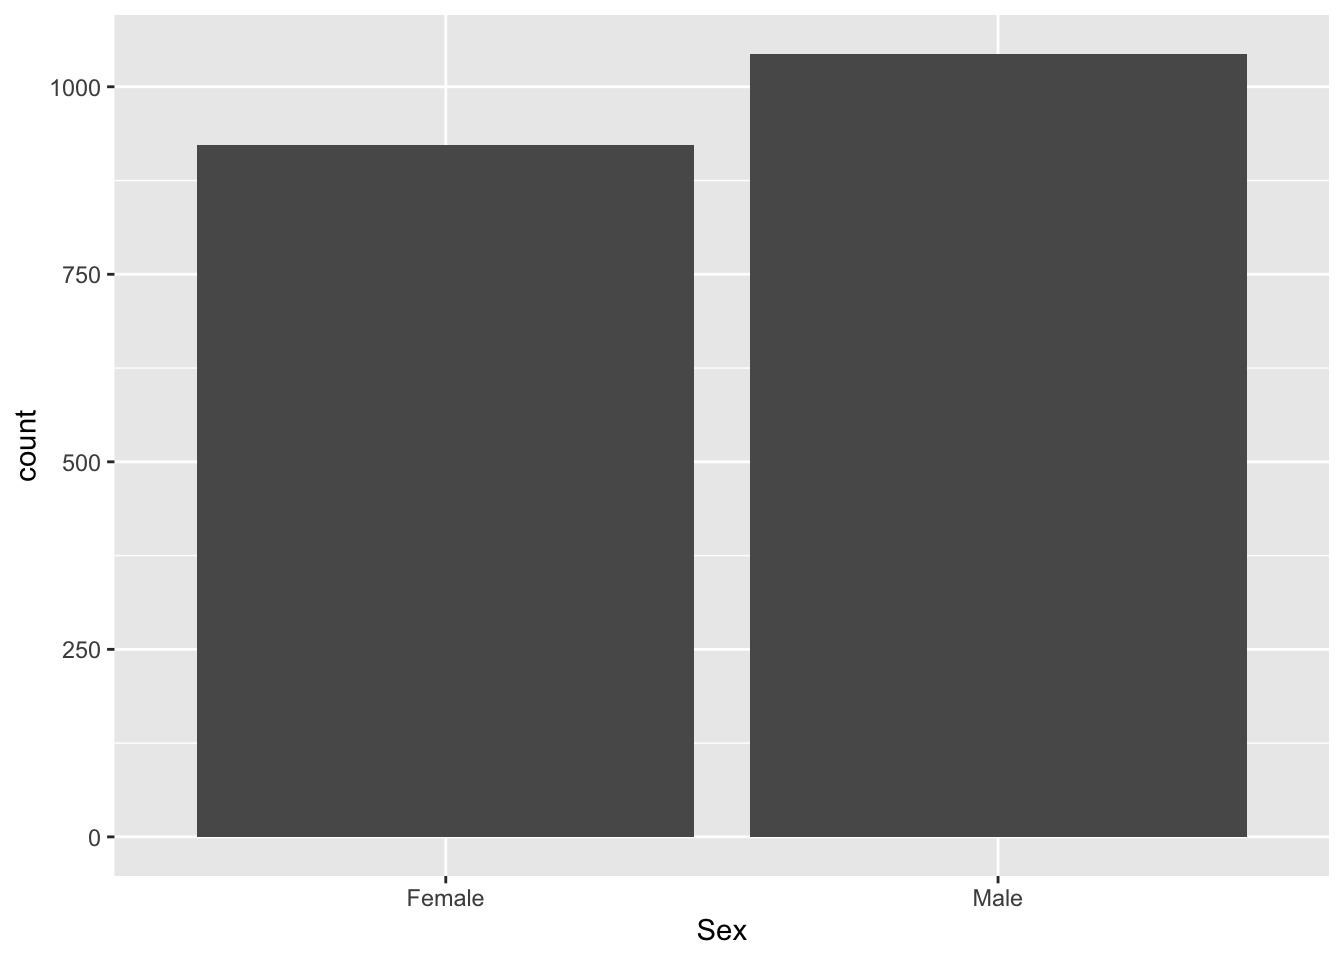
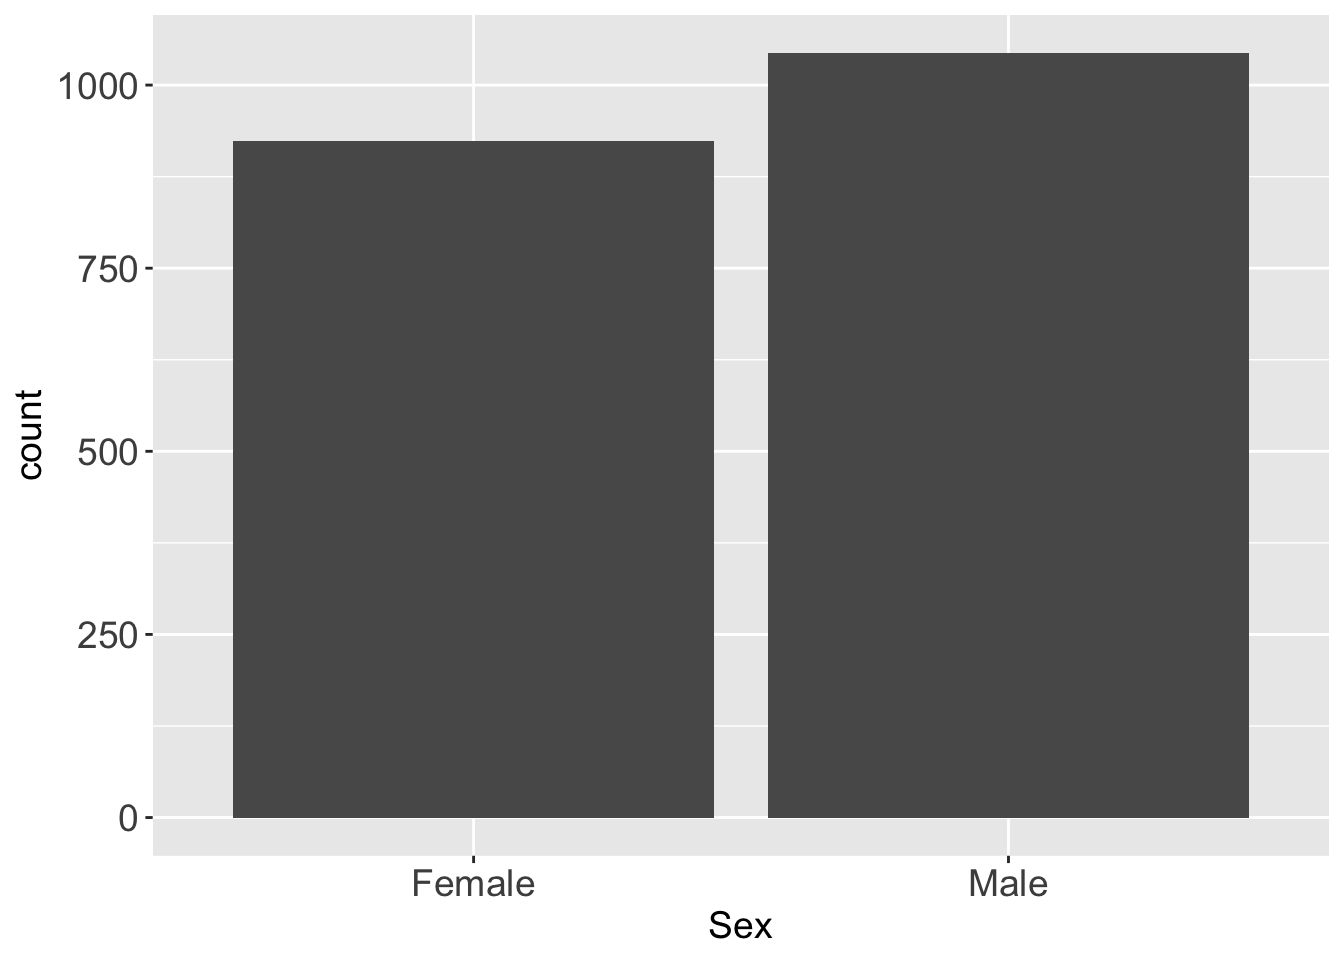
Updated questions

diff --git a/docs/datathon.html b/docs/datathon.html
@@ -195,10 +195,10 @@ pre > code.sourceCode > span > a:first-child::before { text-decoration: underlin
 </section>
 <section id="data-and-prep" class="level2">
 <h2 class="anchored" data-anchor-id="data-and-prep">Data and Prep</h2>
-<p>Using the <a href="https://www.inqs.info/ci_datathon_25/tutorial.html">tutorial</a> and example analysis, complete at least one of the challenges.</p>
-<p>The data provided is part of an ongoing longitudinal study of island foxes from 2014 to 2016 of trap monitoring. This resulted in collection of 4,975 recorded trap observations, which may have contained a fox or not. Other information collected were Sex, Age Class, Weight, Body Condition, Reproductive Status, and Vaccinations. Information on the data collected can be found in the <a href="https://www.inqs.info/ci_datathon_25/codebook_19052696">Databook</a>.</p>
+<p>The data provided is part of an ongoing longitudinal study of island foxes from 2014 to 2016 of trap monitoring. This resulted in collection of 4,975 recorded trap observations, which may have contained a fox or not. Other information collected were Sex, Age Class, Weight, Body Condition, Reproductive Status, and Vaccinations. Information on the data collected can be found in the <a href="https://github.com/mludkov/UCSB_Data_Day_2026/blob/gh-pages/data_for_datathon_2014_2016.csv">Databook</a>.</p>
 <section id="loading-packages" class="level3">
 <h3 class="anchored" data-anchor-id="loading-packages">Loading Packages</h3>
+<p>The <code>tidyverse</code> suite is a collection of data analysis packages:</p>
 <div class="cell">
 <div class="sourceCode cell-code" id="cb1"><pre class="sourceCode r code-with-copy"><code class="sourceCode r"><span id="cb1-1"><a href="#cb1-1" aria-hidden="true" tabindex="-1"></a><span class="fu">library</span>(tidyverse)</span></code><button title="Copy to Clipboard" class="code-copy-button"><i class="bi"></i></button></pre></div>
 <div class="cell-output cell-output-stderr">
@@ -219,7 +219,8 @@ pre > code.sourceCode > span > a:first-child::before { text-decoration: underlin
 <h3 class="anchored" data-anchor-id="loading-data">Loading Data</h3>
 <p>We will load the data into the R workspace using the <code>read_csv</code> function:</p>
 <div class="cell">
-<div class="sourceCode cell-code" id="cb3"><pre class="sourceCode r code-with-copy"><code class="sourceCode r"><span id="cb3-1"><a href="#cb3-1" aria-hidden="true" tabindex="-1"></a>df <span class="ot">&lt;-</span> <span class="fu">read_csv</span>(here<span class="sc">::</span><span class="fu">here</span>(<span class="st">"data_for_datathon_2014_2016.csv"</span>)) <span class="co"># Loads the Data Set into the object df</span></span></code><button title="Copy to Clipboard" class="code-copy-button"><i class="bi"></i></button></pre></div>
+<div class="sourceCode cell-code" id="cb3"><pre class="sourceCode r code-with-copy"><code class="sourceCode r"><span id="cb3-1"><a href="#cb3-1" aria-hidden="true" tabindex="-1"></a><span class="co"># Need to modify to load the file from the location where you downloaded it</span></span>
+<span id="cb3-2"><a href="#cb3-2" aria-hidden="true" tabindex="-1"></a>df <span class="ot">&lt;-</span> <span class="fu">read_csv</span>(here<span class="sc">::</span><span class="fu">here</span>(<span class="st">"data_for_datathon_2014_2016.csv"</span>)) <span class="co"># Loads the Data Set into the object df</span></span></code><button title="Copy to Clipboard" class="code-copy-button"><i class="bi"></i></button></pre></div>
 <div class="cell-output cell-output-stderr">
 <pre><code>Rows: 4975 Columns: 16
 ── Column specification ────────────────────────────────────────────────────────
@@ -237,7 +238,7 @@ dttm (1): TrapDate
 <h3 class="anchored" data-anchor-id="cleaning-data">Cleaning Data</h3>
 <section id="renaming-categories" class="level4">
 <h4 class="anchored" data-anchor-id="renaming-categories">Renaming Categories</h4>
-<p>Looking at the <a href="https://www.inqs.info/ci_datathon_25/codebook_19052696">Databook</a>, the variables <code>Vaccinations</code>, <code>ReproductiveStatus</code> and <code>BodyCondition</code> have interesting ways they are coded. In <code>Vaccinations</code>, missing values (<code>NA</code>) are considered as not vaccinated; therefore, changing the missing to “NV” will ensure that they are correctly classified, see data book. In <code>ReproductiveStatus</code>, the missing values (<code>NA</code>) indicate unknown reproductive status. In <code>BodyCondition</code>, the numerical values 1, 2, 3, 4, and 5, represent a condition. To make the condition easier, we will convert them to the categories. Run the code below to alter them:</p>
+<p>Looking at the <a href="https://github.com/mludkov/UCSB_Data_Day_2026/blob/gh-pages/IslandFoxes_codebook.pdf">Codebook</a>, the variables <code>Vaccinations</code>, <code>ReproductiveStatus</code> and <code>BodyCondition</code> are coded in interesting ways. In <code>Vaccinations</code>, missing values (<code>NA</code>) are considered as not vaccinated; therefore, changing the missing to “NV” will ensure that they are correctly classified. In <code>ReproductiveStatus</code>, the missing values (<code>NA</code>) indicate unknown reproductive status. In <code>BodyCondition</code>, the numerical values 1, 2, 3, 4, and 5, represent a condition. To make the condition easier, we will convert them to the categories. Run the code below to alter them:</p>
 <div class="cell">
 <div class="sourceCode cell-code" id="cb5"><pre class="sourceCode r code-with-copy"><code class="sourceCode r"><span id="cb5-1"><a href="#cb5-1" aria-hidden="true" tabindex="-1"></a>df <span class="ot">&lt;-</span> df <span class="sc">|&gt;</span> <span class="fu">mutate</span>( <span class="co"># Will change the variables in the df data set</span></span>
 <span id="cb5-2"><a href="#cb5-2" aria-hidden="true" tabindex="-1"></a>    <span class="at">Vaccinations =</span> <span class="fu">case_when</span>(<span class="fu">is.na</span>(Vaccinations) <span class="sc">~</span> <span class="st">"NV"</span>, <span class="at">.default =</span> Vaccinations), <span class="co"># Reclassifies Missing Data in Vaccination as "N" per code book.</span></span>
@@ -254,7 +255,7 @@ dttm (1): TrapDate
 </section>
 <section id="missing-values" class="level4">
 <h4 class="anchored" data-anchor-id="missing-values">Missing Values</h4>
-<p>Several variables in the data set may have missing values. Using the <code>summary()</code>, we can determine which variables have missing values by looking at the “NA’s” category.</p>
+<p>Several variables in the data set may be missing. Using the <code>summary()</code>, we can determine which variables have missing values by looking at the “NA’s” category.</p>
 <div class="cell">
 <div class="sourceCode cell-code" id="cb6"><pre class="sourceCode r code-with-copy"><code class="sourceCode r"><span id="cb6-1"><a href="#cb6-1" aria-hidden="true" tabindex="-1"></a><span class="fu">summary</span>(df)</span></code><button title="Copy to Clipboard" class="code-copy-button"><i class="bi"></i></button></pre></div>
 <div class="cell-output cell-output-stdout">
@@ -317,7 +318,7 @@ dttm (1): TrapDate
 <section id="fox-weight" class="level2">
 <h2 class="anchored" data-anchor-id="fox-weight">Fox Weight Analysis</h2>
 <p>Imagine you’re a field biologist tracking animal health across the remote Santa Rosa and San Miguel Islands. You’ve noticed that some animals seem heavier in certain years—but is it just your imagination, or is there a real trend?</p>
-<p>The <code>Weght</code> variable contains information of the Fox’s weight in killogrgms. Let’s start by calculating the mean weight and standard deviation of weight using <code>mean()</code> and <code>sd()</code> functions:</p>
+<p>The <code>Weght</code> variable contains information of the Fox’s weight in kilograms. Let’s start by calculating the mean weight and standard deviation of weight using <code>mean()</code> and <code>sd()</code> functions:</p>
 <div class="cell">
 <div class="sourceCode cell-code" id="cb11"><pre class="sourceCode r code-with-copy"><code class="sourceCode r"><span id="cb11-1"><a href="#cb11-1" aria-hidden="true" tabindex="-1"></a>mean_weight<span class="ot">&lt;-</span><span class="fu">mean</span>(df<span class="sc">$</span>Weight)</span>
 <span id="cb11-2"><a href="#cb11-2" aria-hidden="true" tabindex="-1"></a>sd_weight<span class="ot">&lt;-</span><span class="fu">sd</span>(df<span class="sc">$</span>Weight)</span>
@@ -331,7 +332,7 @@ dttm (1): TrapDate
 </div>
 </div>
 <p>We see that mean weight of a fox is about 1.9 kg (which is about 4 pounds) with standard deviation about .41 kg.</p>
-<p>We will use the <code>table()</code> and <code>prop.table()</code> function to get the frequencies and proportions for the <code>Sex</code>.</p>
+<p>We use the <code>table()</code> and <code>prop.table()</code> functions to get the frequencies and proportions for the <code>Sex</code>.</p>
 <div class="cell">
 <div class="sourceCode cell-code" id="cb15"><pre class="sourceCode r code-with-copy"><code class="sourceCode r"><span id="cb15-1"><a href="#cb15-1" aria-hidden="true" tabindex="-1"></a>count_df <span class="ot">&lt;-</span> <span class="fu">table</span>(df<span class="sc">$</span>Sex) <span class="co"># Using the 'Sex' variable from the `df` data set, we count the frequencies of each category with the table function and storing it in rs_df.</span></span>
 <span id="cb15-2"><a href="#cb15-2" aria-hidden="true" tabindex="-1"></a>count_df <span class="co"># Printing out the contents of "rs_df"</span></span></code><button title="Copy to Clipboard" class="code-copy-button"><i class="bi"></i></button></pre></div>
@@ -350,11 +351,12 @@ Female   Male
 0.4692425 0.5307575 </code></pre>
 </div>
 </div>
-<p>Using the <code>prop.table()</code> function, we can see that that there are slightly more male Foxes (about 53%) vs.&nbsp;female Foxes (about 47%).</p>
-<p>We can visualize the data using the <code>ggplot</code> functions:</p>
+<p>The <code>prop.table()</code> function shows the respective percentages: there are slightly more male Foxes (about 53%) vs.&nbsp;female Foxes (about 47%).</p>
+<p>We can visualize the data using the <code>ggplot</code> functions. Namely we build a bar plot that shows those above counts visually (with more Male than Female foxes):</p>
 <div class="cell">
 <div class="sourceCode cell-code" id="cb19"><pre class="sourceCode r code-with-copy"><code class="sourceCode r"><span id="cb19-1"><a href="#cb19-1" aria-hidden="true" tabindex="-1"></a><span class="fu">ggplot</span>(df) <span class="sc">+</span> <span class="co"># Setting up the data to create a plot.</span></span>
-<span id="cb19-2"><a href="#cb19-2" aria-hidden="true" tabindex="-1"></a>  <span class="fu">geom_bar</span>(<span class="fu">aes</span>(Sex)) <span class="co"># Creating a bar chart based on the variable "ReproductiveStatus"</span></span></code><button title="Copy to Clipboard" class="code-copy-button"><i class="bi"></i></button></pre></div>
+<span id="cb19-2"><a href="#cb19-2" aria-hidden="true" tabindex="-1"></a>  <span class="fu">geom_bar</span>(<span class="fu">aes</span>(Sex)) <span class="sc">+</span> <span class="co"># Creating a bar chart based on the variable "ReproductiveStatus" </span></span>
+<span id="cb19-3"><a href="#cb19-3" aria-hidden="true" tabindex="-1"></a>  <span class="fu">theme</span>(<span class="at">axis.title =</span> <span class="fu">element_text</span>(<span class="at">size =</span> <span class="dv">14</span>), <span class="at">axis.text =</span> <span class="fu">element_text</span>(<span class="at">size =</span> <span class="dv">14</span>))</span></code><button title="Copy to Clipboard" class="code-copy-button"><i class="bi"></i></button></pre></div>
 <div class="cell-output-display">
 <div>
 <figure class="figure">
@@ -363,10 +365,9 @@ Female   Male
 </div>
 </div>
 </div>
-<p>The bar plot demonstrates that there are more males than females.</p>
 <section id="weight-vs-sex" class="level3">
 <h3 class="anchored" data-anchor-id="weight-vs-sex">Weight vs Sex</h3>
-<p>Let’s visualize the variable <code>Weight</code> and <code>Sex</code> with a box plot using <code>ggplot</code>:</p>
+<p>Let’s visualize the variable <code>Weight</code> and <code>Sex</code> with a boxplot using <code>ggplot</code>:</p>
 <div class="cell">
 <div class="sourceCode cell-code" id="cb20"><pre class="sourceCode r code-with-copy"><code class="sourceCode r"><span id="cb20-1"><a href="#cb20-1" aria-hidden="true" tabindex="-1"></a><span class="fu">ggplot</span>(df, <span class="fu">aes</span>(<span class="at">x =</span> Sex, <span class="at">y =</span> Weight)) <span class="sc">+</span></span>
 <span id="cb20-2"><a href="#cb20-2" aria-hidden="true" tabindex="-1"></a>  <span class="fu">geom_boxplot</span>(<span class="at">fill =</span> <span class="st">"lightblue"</span>) <span class="sc">+</span></span>
@@ -383,7 +384,7 @@ Female   Male
 </div>
 </div>
 </div>
-<p>From the box plot we see that male Foxs tend to be slightly heavier than female Foxes.</p>
+<p>From the box plot we see that male Foxs tend to be slightly <em>heavier</em> than female Foxes.</p>
 <p>We can use <code>group_by()</code> function to separate male from female population and calculate means and standard deviations separately:</p>
 <div class="cell">
 <div class="sourceCode cell-code" id="cb21"><pre class="sourceCode r code-with-copy"><code class="sourceCode r"><span id="cb21-1"><a href="#cb21-1" aria-hidden="true" tabindex="-1"></a>weight_summary <span class="ot">&lt;-</span> df <span class="sc">%&gt;%</span></span>
@@ -458,7 +459,7 @@ Weight vs Sex over time by Island
 </div>
 </div>
 <div class="callout-body-container callout-body">
-<p>Take a moment to conduct the same analysis for different <code>Islands</code> separately and comment on the trends you see:</p>
+<p>Here is a first question for you to answer: do the foxes on different islands have the same weight? Is there an island where the foxes are <strong>significantly</strong> heavier than others? To conduct such analysis, you can filter by different <code>Islands</code>:</p>
 <div class="cell">
 <div class="sourceCode cell-code" id="cb26"><pre class="sourceCode r code-with-copy"><code class="sourceCode r"><span id="cb26-1"><a href="#cb26-1" aria-hidden="true" tabindex="-1"></a><span class="co">#Santa Rosa Fox population </span></span>
 <span id="cb26-2"><a href="#cb26-2" aria-hidden="true" tabindex="-1"></a></span>
@@ -483,7 +484,7 @@ Vaccinations
 </div>
 </div>
 <div class="callout-body-container callout-body">
-<p>Analyse the interaction between <code>Weight</code> and <code>Vaccinations</code></p>
+<p>Do vaccinated foxes have a different weight compared to unvaccinated ones? To answer this, study the relationship between <code>Weight</code> and <code>Vaccinations</code></p>
 </div>
 </div>
 <div class="callout callout-style-default callout-warning no-icon callout-titled">
@@ -496,7 +497,7 @@ Body Condition
 </div>
 </div>
 <div class="callout-body-container callout-body">
-<p>Analyse the interaction between <code>Weight</code> and <code>BodyCondition</code></p>
+<p>The dataset has a variable called <code>BodyCondition</code>. What proportion of foxes are well nourished? Do some islands have a larger proportion of “fat” foxes than others? How does <code>BodyCondition' connect with</code>Weight’? For the latter, you could look into scatter plots.</p>
 </div>
 </div>
 </section>
@@ -504,10 +505,6 @@ Body Condition
 <section id="fox-rs" class="level2">
 <h2 class="anchored" data-anchor-id="fox-rs">Fox Reproductive Status Analysis</h2>
 <p>The <code>ReproductiveStatus</code> variable contains information of the Fox’s reproductive status when captures. This data is recorded as “N” (Not actively reproductive), “L” (Lactating), “SL” (Signs of Lactating), and “TD” (Testes Distended).</p>
-<section id="descriptive-statistics" class="level3">
-<h3 class="anchored" data-anchor-id="descriptive-statistics">Descriptive Statistics</h3>
-<section id="reproductive-status" class="level4">
-<h4 class="anchored" data-anchor-id="reproductive-status">Reproductive Status</h4>
 <p>We will use the <code>table()</code> and <code>prop.table()</code> function to get the frequencies and proportions for the <code>ReproductiveStatus</code>.</p>
 <div class="cell">
 <div class="sourceCode cell-code" id="cb27"><pre class="sourceCode r code-with-copy"><code class="sourceCode r"><span id="cb27-1"><a href="#cb27-1" aria-hidden="true" tabindex="-1"></a>rs_df <span class="ot">&lt;-</span> <span class="fu">table</span>(df<span class="sc">$</span>ReproductiveStatus) <span class="co"># Using the 'ReproductiveStatus' variable from the `df` data set, we count the frequencies of each category with the table function and storing it in rs_df.</span></span>
@@ -527,8 +524,7 @@ Body Condition
 0.009150991 0.124046772 0.523640061 0.343162176 </code></pre>
 </div>
 </div>
-<p>Using the <code>prop.table()</code> function, we can see that that the most common status is “TD” at 52.4% and the least common is “L” at the 0.9%. Both “SL” and “UN” represent 12.4% and 34.3% of the data, respectively.</p>
-<p>We can visualize the data using the <code>ggplot</code> functions:</p>
+<p>Using the <code>prop.table()</code> function, we can see that that the most common status is “TD” at 52.4% and the least common is “L” at the 0.9%. Both “SL” and “UN” represent 12.4% and 34.3% of the data, respectively. In barplot format we have:</p>
 <div class="cell">
 <div class="sourceCode cell-code" id="cb31"><pre class="sourceCode r code-with-copy"><code class="sourceCode r"><span id="cb31-1"><a href="#cb31-1" aria-hidden="true" tabindex="-1"></a><span class="fu">ggplot</span>(df) <span class="sc">+</span> <span class="co"># Setting up the data to create a plot.</span></span>
 <span id="cb31-2"><a href="#cb31-2" aria-hidden="true" tabindex="-1"></a>  <span class="fu">geom_bar</span>(<span class="fu">aes</span>(ReproductiveStatus)) <span class="co"># Creating a bar chart based on the variable "ReproductiveStatus"</span></span></code><button title="Copy to Clipboard" class="code-copy-button"><i class="bi"></i></button></pre></div>
@@ -540,24 +536,8 @@ Body Condition
 </div>
 </div>
 </div>
-<p>The bar plot demonstrates that “TD” is the most common status in the data, and “L” is the least common status in the data.</p>
-<div class="callout callout-style-default callout-note no-icon callout-titled">
-<div class="callout-header d-flex align-content-center">
-<div class="callout-icon-container">
-<i class="callout-icon no-icon"></i>
-</div>
-<div class="callout-title-container flex-fill">
-Analysing Sex
-</div>
-</div>
-<div class="callout-body-container callout-body">
-<p>Take a moment to conduct the same analysis with the <code>Sex</code> variable.</p>
-</div>
-</div>
-</section>
-</section>
-<section id="sex-and-reproductive-status" class="level3">
-<h3 class="anchored" data-anchor-id="sex-and-reproductive-status">Sex and Reproductive Status</h3>
+<section id="sex-and-reproductive-status" class="level4">
+<h4 class="anchored" data-anchor-id="sex-and-reproductive-status">Sex and Reproductive Status</h4>
 <p>Let’s compare the frequencies between the variables <code>Sex</code> and <code>Reproductive Status</code>. We will be using the same <code>table()</code> function:</p>
 <div class="cell">
 <div class="sourceCode cell-code" id="cb32"><pre class="sourceCode r code-with-copy"><code class="sourceCode r"><span id="cb32-1"><a href="#cb32-1" aria-hidden="true" tabindex="-1"></a>xy_df <span class="ot">&lt;-</span> <span class="fu">table</span>(df<span class="sc">$</span>ReproductiveStatus, df<span class="sc">$</span>Sex)</span>
@@ -588,11 +568,12 @@ Analysing Sex
   UN 0.336044738 0.007117438</code></pre>
 </div>
 </div>
-<p>We can see that 52.4% of the data are Male and “TD” foxes, 33.6% of the data are Female and “UN” foxes, and 12.4% of the data are Female and “SL” foxes.</p>
-<p>Let’s visualize the variable <code>ReproductiveStatus</code> and <code>Sex</code> with a stacked bar plot:</p>
+<p>We can see that 52.4% of the data are Male and “TD” foxes, 33.6% of the data are Female and “UN” foxes, and 12.4% of the data are Female and “SL” foxes. To visualize how the variable <code>ReproductiveStatus</code> and <code>Sex</code> related to each other we use a stacked bar plot:</p>
 <div class="cell">
 <div class="sourceCode cell-code" id="cb36"><pre class="sourceCode r code-with-copy"><code class="sourceCode r"><span id="cb36-1"><a href="#cb36-1" aria-hidden="true" tabindex="-1"></a><span class="fu">ggplot</span>(df) <span class="sc">+</span></span>
-<span id="cb36-2"><a href="#cb36-2" aria-hidden="true" tabindex="-1"></a>  <span class="fu">geom_bar</span>(<span class="fu">aes</span>(Sex, <span class="at">fill =</span> ReproductiveStatus))</span></code><button title="Copy to Clipboard" class="code-copy-button"><i class="bi"></i></button></pre></div>
+<span id="cb36-2"><a href="#cb36-2" aria-hidden="true" tabindex="-1"></a>  <span class="fu">geom_bar</span>(<span class="fu">aes</span>(Sex, <span class="at">fill =</span> ReproductiveStatus)) <span class="sc">+</span></span>
+<span id="cb36-3"><a href="#cb36-3" aria-hidden="true" tabindex="-1"></a>  <span class="fu">theme_minimal</span>() <span class="sc">+</span></span>
+<span id="cb36-4"><a href="#cb36-4" aria-hidden="true" tabindex="-1"></a>  <span class="fu">theme</span>(<span class="at">axis.title =</span> <span class="fu">element_text</span>(<span class="at">size =</span> <span class="dv">14</span>), <span class="at">axis.text =</span> <span class="fu">element_text</span>(<span class="at">size =</span> <span class="dv">14</span>))</span></code><button title="Copy to Clipboard" class="code-copy-button"><i class="bi"></i></button></pre></div>
 <div class="cell-output-display">
 <div>
 <figure class="figure">
@@ -601,7 +582,7 @@ Analysing Sex
 </div>
 </div>
 </div>
-<p>The plot indicate which categories are most dominant in each sex. We can see that the most dominant reproductive status in Male foxes is testes distended. For Female foxes, we can see tha tthe most common reproductive status being unknown.</p>
+<p>The plot indicate which categories are most dominant in each sex. We can see that the most dominant reproductive status in Male foxes is testes distended. For Female foxes, we can see that the most common reproductive status is Unknown.</p>
 </section>
 <section id="challenges" class="level3">
 <h3 class="anchored" data-anchor-id="challenges">Challenges</h3>
@@ -615,33 +596,7 @@ Age Class
 </div>
 </div>
 <div class="callout-body-container callout-body">
-<p>Analyse the interaction between <code>ReproductiveStatus</code> and <code>AgeClass</code></p>
-</div>
-</div>
-<div class="callout callout-style-default callout-tip no-icon callout-titled">
-<div class="callout-header d-flex align-content-center">
-<div class="callout-icon-container">
-<i class="callout-icon no-icon"></i>
-</div>
-<div class="callout-title-container flex-fill">
-Vaccinations
-</div>
-</div>
-<div class="callout-body-container callout-body">
-<p>Analyse the interaction between <code>ReproductiveStatus</code> and <code>Vaccinations</code></p>
-</div>
-</div>
-<div class="callout callout-style-default callout-warning no-icon callout-titled">
-<div class="callout-header d-flex align-content-center">
-<div class="callout-icon-container">
-<i class="callout-icon no-icon"></i>
-</div>
-<div class="callout-title-container flex-fill">
-Capture Type
-</div>
-</div>
-<div class="callout-body-container callout-body">
-<p>Analyse the interaction between <code>ReproductiveStatus</code> and <code>Capture Type</code></p>
+<p>How does <code>ReproductiveStatus</code> relate to <code>AgeClass</code> (how old is the fox), to <code>Vaccinations</code>, and to `Capture Type’.</p>
 </div>
 </div>
 
